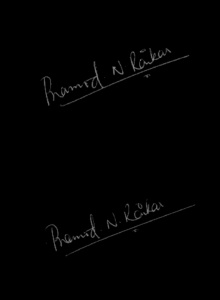
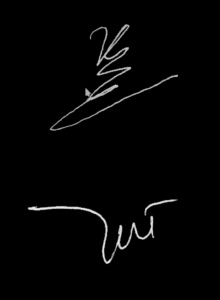
fix height > width

Changed region(s): [[0.1909, 0.06, 0.8455, 0.42], [0.1091, 0.66, 0.8455, 0.9], [0.2182, 0.39, 0.3273, 0.45]]

diff --git a/sigver/preprocessing/normalize.py b/sigver/preprocessing/normalize.py
@@ -34,6 +34,9 @@ def preprocess_signature(img: np.ndarray,
 
     """
     h, w = img.shape[0], img.shape[1]
+    if h > w:
+        addition = int((1.5*h - w) // 2)
+        img = cv2.copyMakeBorder(img, 0, 0, addition, addition, borderType=cv2.BORDER_CONSTANT, value=255)
     new_h, new_w = resize_size[0], resize_size[1]
     # if h < new_h and w < new_w:
     #     img_resized = img
